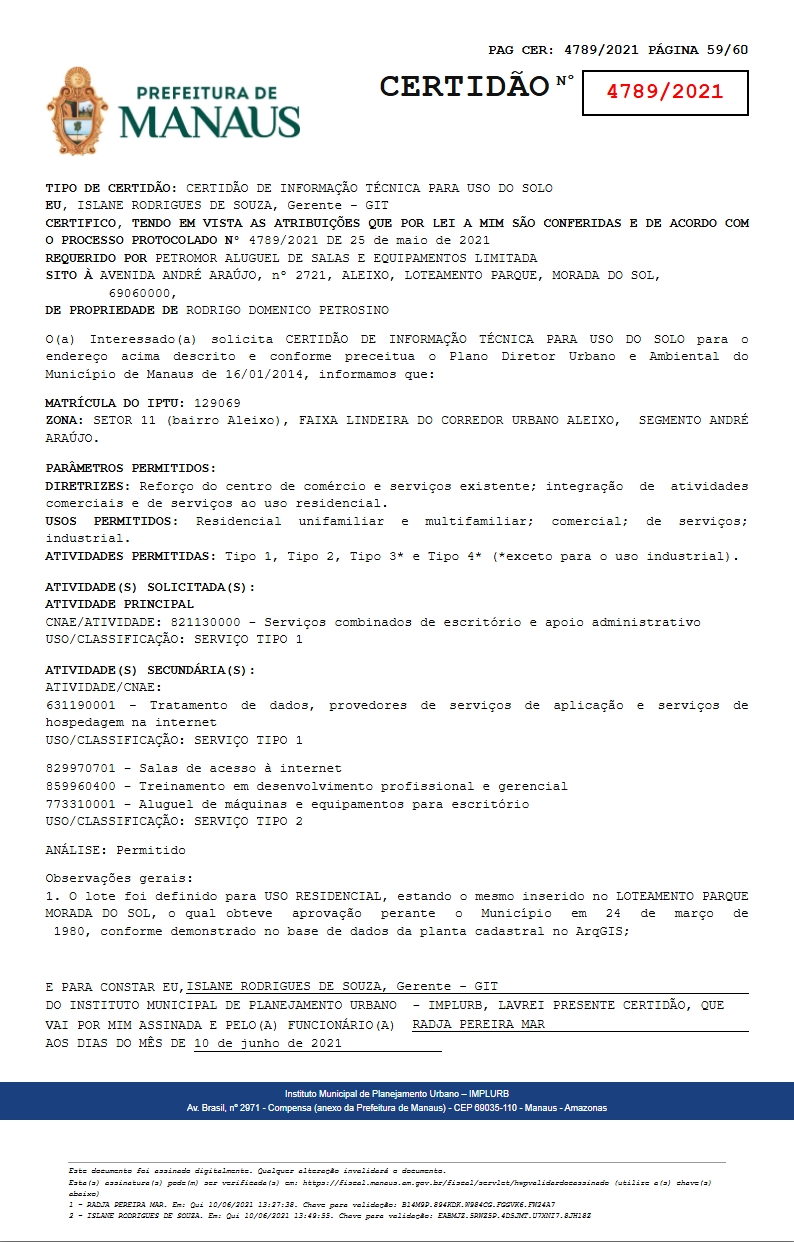
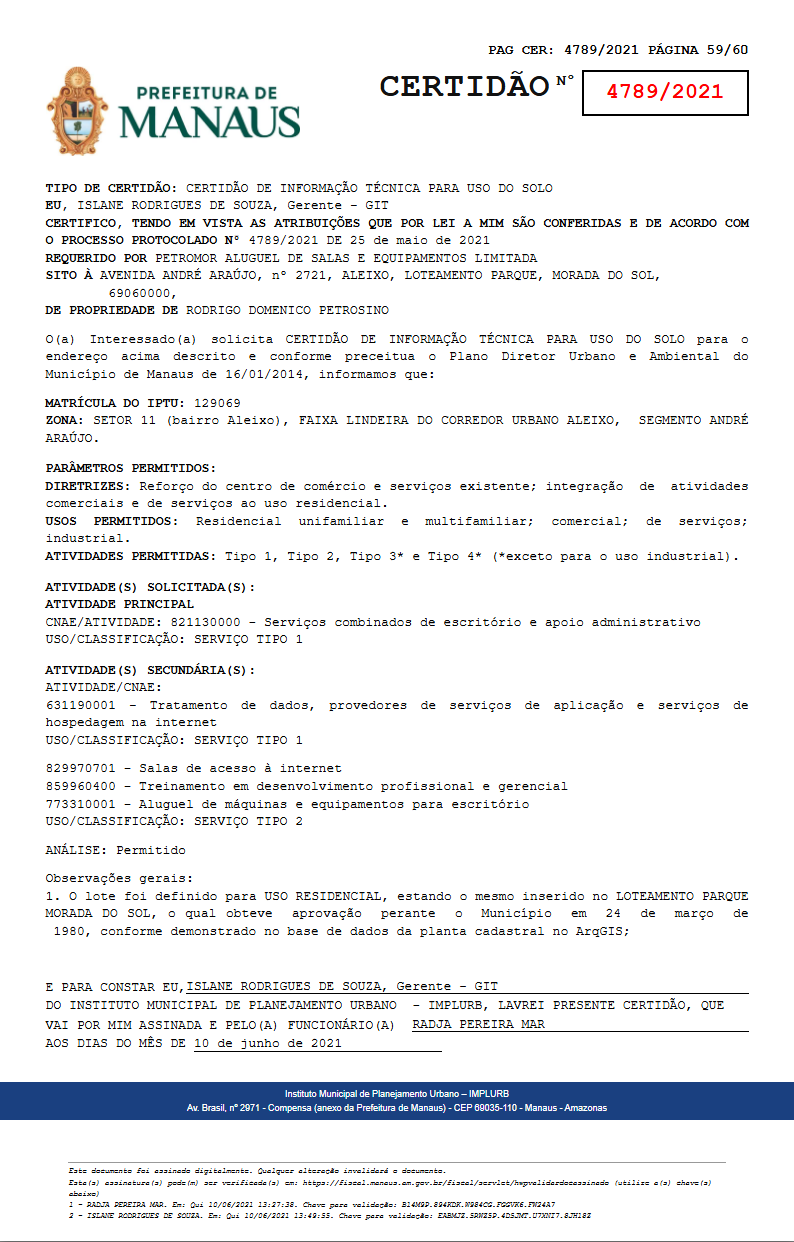
auto-sync: 2026-04-27 10:45

diff --git a/dados/preview-zoom.js b/dados/preview-zoom.js
@@ -1,0 +1,17 @@
+const { chromium } = require('playwright');
+
+(async () => {
+  const browser = await chromium.launch();
+  const page = await browser.newPage();
+  await page.setViewportSize({ width: 1200, height: 1800 });
+  const filePath = 'file:///C:/Users/kalid/Downloads/KalidCarvalho-os/dados/certidao-template.html';
+  await page.goto(filePath, { waitUntil: 'networkidle' });
+  await page.waitForTimeout(800);
+  // Captura só o trecho do corpo de texto (primeiros ~300px do body)
+  await page.screenshot({
+    path: 'C:/Users/kalid/Downloads/KalidCarvalho-os/dados/html-zoom.png',
+    clip: { x: 30, y: 210, width: 780, height: 400 }
+  });
+  console.log('done');
+  await browser.close();
+})();

diff --git a/dados/certidao-template.html b/dados/certidao-template.html
@@ -88,6 +88,7 @@
     font-size: 13px;
     line-height: 1.35;
     text-align: justify;
+    -webkit-text-stroke: 0.08px #000;
   }
 
   .body p {

diff --git a/dados/build-html.py b/dados/build-html.py
@@ -93,6 +93,7 @@ html = """<!DOCTYPE html>
     font-size: 13px;
     line-height: 1.35;
     text-align: justify;
+    -webkit-text-stroke: 0.08px #000;
   }
 
   .body p {
